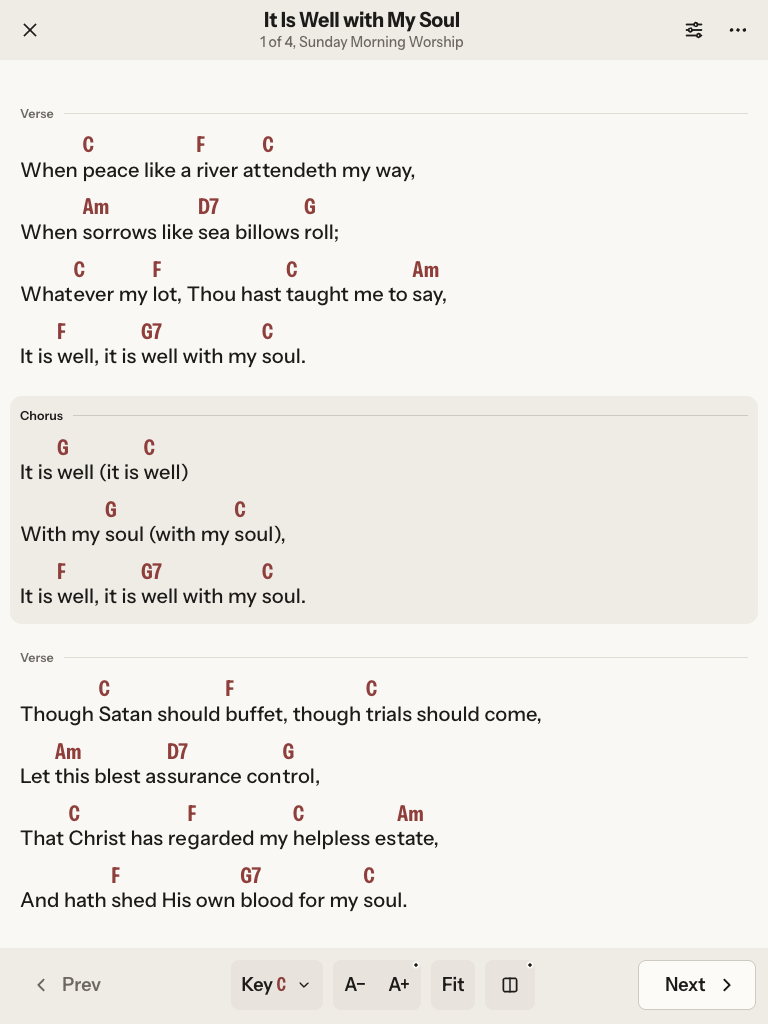
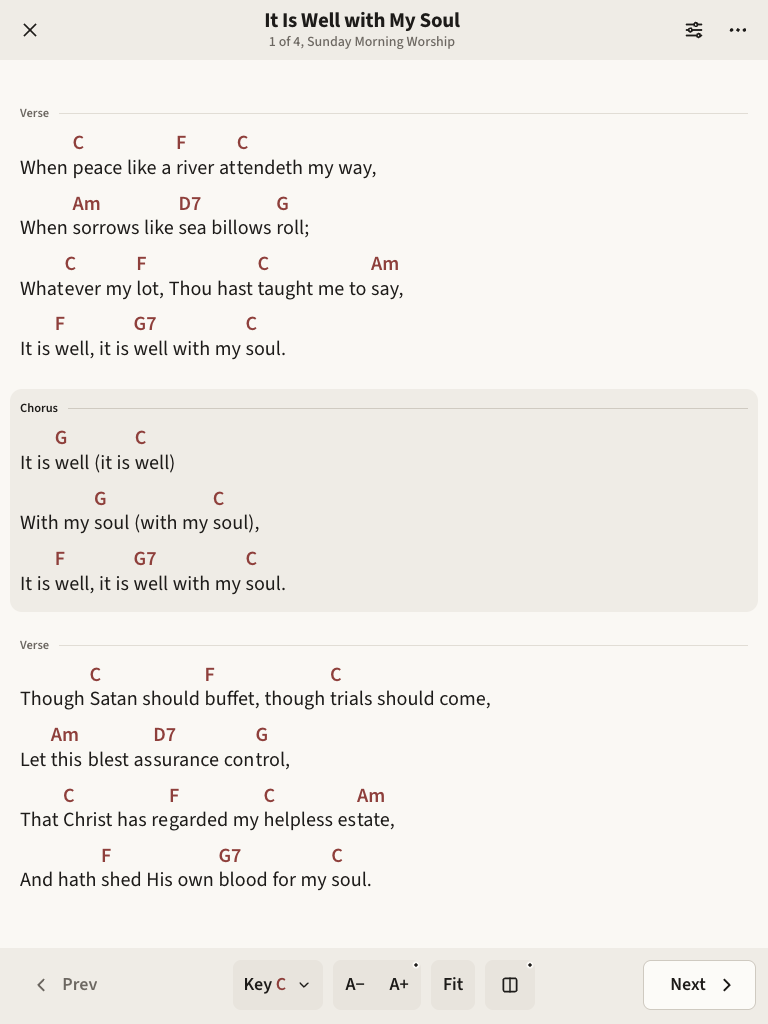
Refine typography, unify song badges and release 1.26.1
Use bundled Source Sans 3 and Noto Sans TC with regular lyrics, smaller chords and consistent metadata badges.

Fix clipped key accidentals and refresh the public-domain README screenshots.

diff --git a/frontend/src/styles/views.css b/frontend/src/styles/views.css
@@ -241,7 +241,7 @@
 
 .setlist-name-row { margin-bottom: 12px; }
 .setlist-name-input {
-  font-family: var(--font-sans); font-size: 32px; font-weight: 700; font-stretch: 92%; letter-spacing: -0.015em;
+  font-family: var(--font-sans); font-size: 32px; font-weight: 700; letter-spacing: -0.015em;
   color: var(--text); border: none; background: none; width: 100%; outline: none;
   padding: 4px 0; border-bottom: 1px solid transparent; transition: all 0.2s;
 }
@@ -404,7 +404,7 @@
 .playback-topbar:not(.compact) { width: 100vw; margin-inline: calc(50% - 50vw); }
 .playback-topbar .btn-exit, .playback-topbar .transpose-bar { flex-shrink: 0; }
 .playback-topbar .transpose-bar { margin: 0; padding: 0; background: none; flex-wrap: nowrap; }
-.playback-title-main { font-stretch: 94%; letter-spacing: -0.012em; text-wrap: balance; overflow-wrap: anywhere; }
+.playback-title-main { letter-spacing: -0.012em; text-wrap: balance; overflow-wrap: anywhere; }
 .playback-dock-bar { min-height: 76px; padding-bottom: calc(12px + env(safe-area-inset-bottom)); }
 .setlist-play-container.has-dock .chord-sheet-wrap { padding-bottom: calc(76px + env(safe-area-inset-bottom) + 32px); }
 

diff --git a/frontend/src/styles/variables.css b/frontend/src/styles/variables.css
@@ -26,10 +26,10 @@
   --ui-modal-bg: var(--raise);
   --ui-shadow: none;
   --shadow-lift: 0 6px 18px rgba(29, 27, 25, 0.1);
-  --font-sans: "Instrument Sans", -apple-system, BlinkMacSystemFont, "Segoe UI", Roboto, Helvetica, Arial, "PingFang TC", "PingFang SC", "Microsoft YaHei", "Noto Sans TC", sans-serif;
+  --font-sans: "Source Sans 3 Variable", "Noto Sans TC Variable", -apple-system, BlinkMacSystemFont, "Segoe UI", sans-serif;
   --font-serif: var(--font-sans);
-  --font-chord: "Instrument Sans", "PingFang TC", "Microsoft YaHei", "Noto Sans TC", sans-serif;
-  --font-mono: 'JetBrains Mono', ui-monospace, SFMono-Regular, Consolas, monospace;
+  --font-chord: var(--font-sans);
+  --font-mono: 'JetBrains Mono Variable', ui-monospace, SFMono-Regular, Consolas, monospace;
   --badge-radius: 20px;
   --radius: 10px;
 }

diff --git a/frontend/src/components/ToolbarControls.tsx b/frontend/src/components/ToolbarControls.tsx
@@ -52,7 +52,7 @@ export function KeyGroup({ currentKey, onPickKey, isModified, onSaveOnline, onSa
         <Popover.Target>
           <Button size={size} px={dense ? 'xs' : undefined} data-testid="key-display" opacity={nashville ? 0.5 : undefined} onClick={toggle}
             rightSection={<IconChevronDown size={16} aria-hidden />}>
-            <span>{keyOnly ? <VisuallyHidden>Key </VisuallyHidden> : 'Key '}<Text span inherit fw={700} c="var(--cv-chord)" ff="var(--font-chord)" style={{ fontStretch: '78%' }}>{currentKey || '?'}</Text></span>
+            <span>{keyOnly ? <VisuallyHidden>Key </VisuallyHidden> : 'Key '}<Text span inherit fw={600} c="var(--cv-chord)" ff="var(--font-chord)">{currentKey || '?'}</Text></span>
           </Button>
         </Popover.Target>
         <Popover.Dropdown>

diff --git a/frontend/src/components/PageTitle.tsx b/frontend/src/components/PageTitle.tsx
@@ -4,7 +4,7 @@ import type { ReactNode } from 'react';
 /** The large heading at the top of a page; wraps evenly instead of truncating. */
 export function PageTitle({ order = 2, className, children }: { order?: 1 | 2; className?: string; children: ReactNode }) {
   return (
-    <Title order={order} className={className} fz={{ base: 28, sm: 34 }} fw={700} lts="-0.015em" style={{ fontStretch: '92%', textWrap: 'balance' }}>
+    <Title order={order} className={className} fz={{ base: 28, sm: 34 }} fw={700} lts="-0.015em" style={{ textWrap: 'balance' }}>
       {children}
     </Title>
   );

diff --git a/frontend/src/theme.ts b/frontend/src/theme.ts
@@ -1,6 +1,6 @@
 import { Chip, createTheme, defaultVariantColorsResolver, localStorageColorSchemeManager, Pagination, type CSSVariablesResolver } from '@mantine/core';
 
-const fontFamily = '"Instrument Sans", -apple-system, BlinkMacSystemFont, "Segoe UI", Roboto, Helvetica, Arial, "PingFang TC", "PingFang SC", "Microsoft YaHei", "Noto Sans TC", sans-serif';
+const fontFamily = '"Source Sans 3 Variable", "Noto Sans TC Variable", -apple-system, BlinkMacSystemFont, "Segoe UI", sans-serif';
 
 export const chordVaultTheme = createTheme({
   fontFamily,

diff --git a/frontend/src/views/SongView.tsx b/frontend/src/views/SongView.tsx
@@ -225,7 +225,7 @@ export function SongView({ songId, navigate }: SongViewProps) {
 
       {(song.tags || song.youtube_url) && (
         <div className="song-view-meta song-view-meta-bottom">
-          {song.tags && song.tags.split(',').map((tag) => <Badge key={tag} size="md">{tag}</Badge>)}
+          {song.tags && song.tags.split(',').map((tag) => <Badge key={tag}>{tag}</Badge>)}
           {song.youtube_url && <a href={song.youtube_url} target="_blank" rel="noopener" className="yt-link">&#9654; YouTube</a>}
         </div>
       )}

diff --git a/frontend/src/styles/chord-sheet.css b/frontend/src/styles/chord-sheet.css
@@ -35,9 +35,8 @@
 
 .chord-sheet .chord {
   font-family: var(--font-chord);
-  font-stretch: 78%;
-  font-size: calc(1.08em * var(--font-scale));
-  font-weight: 700;
+  font-size: calc(1em * var(--font-scale));
+  font-weight: 600;
   line-height: 1.12;
   color: var(--chord);
   min-height: 1.12em;
@@ -50,7 +49,7 @@
 .chord-sheet .lyrics {
   font-family: var(--font-sans);
   font-size: calc(1em * var(--font-scale));
-  font-weight: 500;
+  font-weight: 400;
   color: var(--text);
   white-space: pre;
   line-height: 1.32;

diff --git a/frontend/src/components/KeyBadge.tsx b/frontend/src/components/KeyBadge.tsx
@@ -1,9 +1,8 @@
 import { Badge } from '@mantine/core';
 
-/** A song's key in the chord colour, on a square so short and long keys line up. */
 export function KeyBadge({ songKey }: { songKey: string }) {
   return (
-    <Badge className="key-badge" radius="md" h={40} miw={40} px={8} fz={17} fw={700} ff="var(--font-chord)" bg="var(--chord-tint)" c="var(--cv-chord)" style={{ fontStretch: '78%' }}>
+    <Badge className="key-badge" bg="var(--chord-tint)" c="var(--cv-chord)">
       {songKey}
     </Badge>
   );

diff --git a/frontend/src/components/SongPicker.tsx b/frontend/src/components/SongPicker.tsx
@@ -89,7 +89,7 @@ function SongPickerContent({ onPick }: Pick<SongPickerProps, 'onPick'>) {
                 meta={<>
                   {s.artist || ''}
                   {(s.version_count ?? 0) > 1 && (
-                    <Badge variant="filled" size="sm" ml={8}>{s.version_count} Versions</Badge>
+                    <Badge variant="filled" ml={8}>{s.version_count} Versions</Badge>
                   )}
                 </>}
                 onClick={() => { void handleCardClick(s); }}

diff --git a/frontend/index.html b/frontend/index.html
@@ -5,8 +5,6 @@
   <meta name="viewport" content="width=device-width, initial-scale=1.0">
   <title>ChordVault</title>
   <link rel="icon" type="image/svg+xml" href="/favicon.svg?v=3">
-  <link rel="preconnect" href="https://fonts.googleapis.com">
-  <link href="https://fonts.googleapis.com/css2?family=Instrument+Sans:ital,wdth,wght@0,75..100,400..700;1,75..100,400..700&amp;family=JetBrains+Mono:wght@400;500;600&amp;display=swap" rel="stylesheet">
 </head>
 <body>
   <div id="root"></div>

diff --git a/frontend/src/components/__tests__/KeyBadge.test.tsx b/frontend/src/components/__tests__/KeyBadge.test.tsx
@@ -5,11 +5,3 @@ it('shows the key as written', () => {
   render(<KeyBadge songKey="F#m" />);
   expect(screen.getByText('F#m')).toBeInTheDocument();
 });
-
-it('draws the key on a 40px square, as the spec sets', () => {
-  render(<KeyBadge songKey="C" />);
-  const badge = screen.getByText('C').closest('.key-badge')!;
-  const style = badge.getAttribute('style') ?? '';
-  expect(style).toMatch(/(^|;\s*)height: calc\(2\.5rem/);
-  expect(style).toMatch(/min-width: calc\(2\.5rem/);
-});

diff --git a/frontend/src/main.tsx b/frontend/src/main.tsx
@@ -12,6 +12,10 @@ import { ResetPasswordModal } from './components/ResetPasswordModal';
 import { App } from './App';
 import '@mantine/core/styles.css';
 import '@mantine/notifications/styles.css';
+import '@fontsource-variable/source-sans-3';
+import '@fontsource-variable/source-sans-3/wght-italic.css';
+import '@fontsource-variable/noto-sans-tc';
+import '@fontsource-variable/jetbrains-mono';
 import './styles/global.css';
 
 createRoot(document.getElementById('root')!).render(
